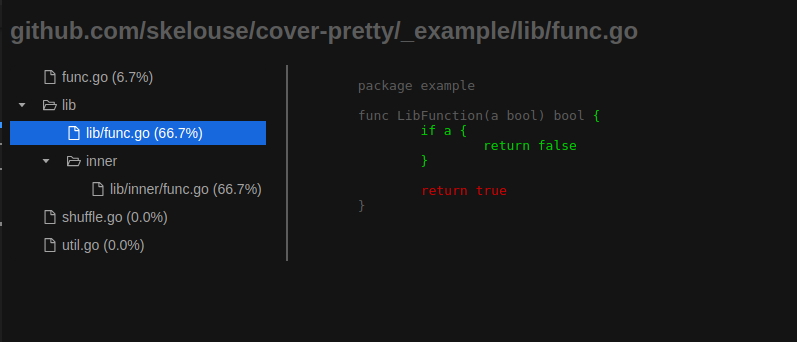
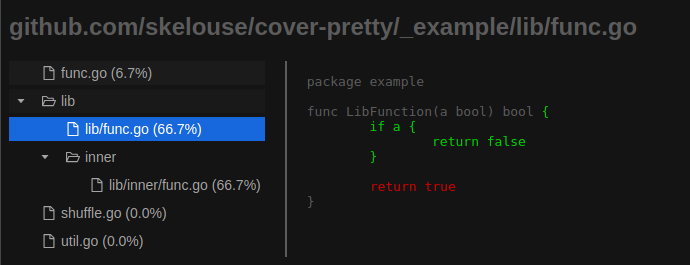
Remove left margin from code and rebuild

diff --git a/go/cover/react-coverage/build/index.html b/go/cover/react-coverage/build/index.html
@@ -1,1 +1,1 @@
-<!doctype html><html lang="en"><head><meta charset="utf-8"/><link rel="icon" href="/favicon.ico"/><meta name="viewport" content="width=device-width,initial-scale=1"/><meta name="theme-color" content="#000000"/><meta name="description" content="Web site created using create-react-app"/><link rel="apple-touch-icon" href="/logo192.png"/><link rel="manifest" href="/manifest.json"/><title>React App</title><script defer="defer" src="/static/js/main.8b5c8154.js"></script><link href="/static/css/main.b961cacc.css" rel="stylesheet"></head><body><noscript>You need to enable JavaScript to run this app.</noscript><div id="root"></div></body></html>
+<!doctype html><html lang="en"><head><meta charset="utf-8"/><link rel="icon" href="/favicon.ico"/><meta name="viewport" content="width=device-width,initial-scale=1"/><meta name="theme-color" content="#000000"/><meta name="description" content="Web site created using create-react-app"/><link rel="apple-touch-icon" href="/logo192.png"/><link rel="manifest" href="/manifest.json"/><title>React App</title><script defer="defer" src="/static/js/main.8b5c8154.js"></script><link href="/static/css/main.9531cc44.css" rel="stylesheet"></head><body><noscript>You need to enable JavaScript to run this app.</noscript><div id="root"></div></body></html>

diff --git a/go/cover/react-coverage/build/static/css/main.9531cc44.css b/go/cover/react-coverage/build/static/css/main.9531cc44.css
@@ -1,0 +1,1 @@
+.file-content{font-family:monospace;white-space:pre-wrap}.file-content .cov0{color:#c00}.file-content .cov8{color:#0c0}.tree-content-container{align-items:flex-start;display:flex}.tree-container{border-right:2px solid #5c5c5c;flex-grow:0;flex-shrink:0;margin-right:20px;padding-right:20px}.content-container{flex-grow:1}body{background-color:#141414;color:#5c5c5c;font-family:Arial,sans-serif}

diff --git a/go/cover/react-coverage/src/TreeContent.css b/go/cover/react-coverage/src/TreeContent.css
@@ -1,5 +1,4 @@
 .file-content {
-  margin-left: 50px;
   white-space: pre-wrap;
   font-family: monospace;
 }
